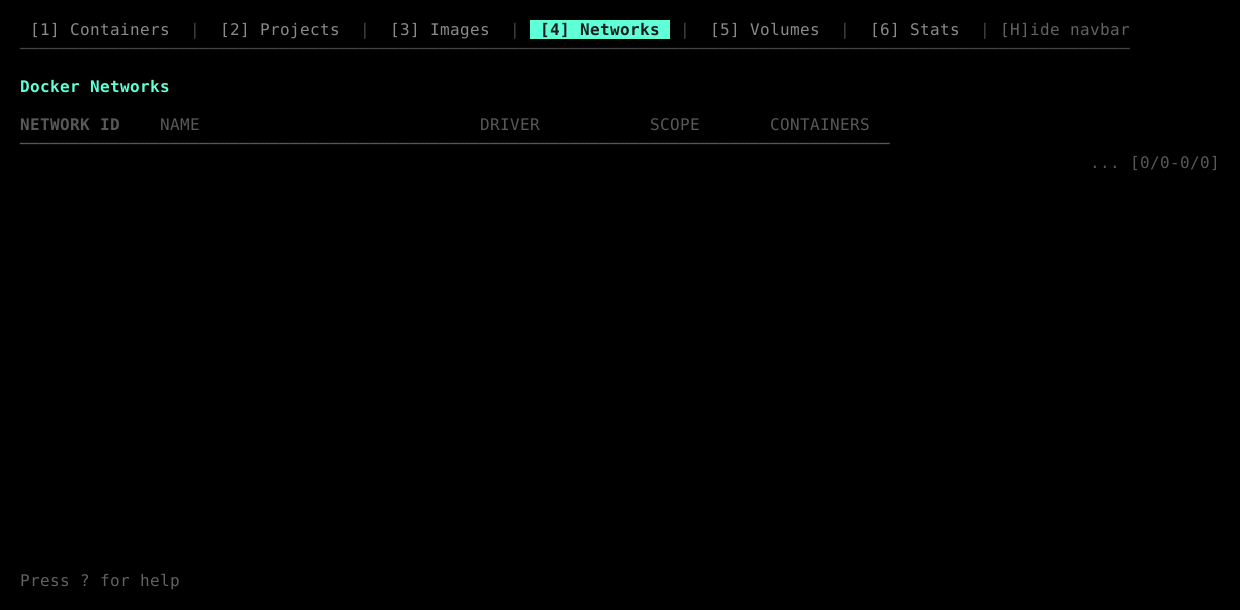
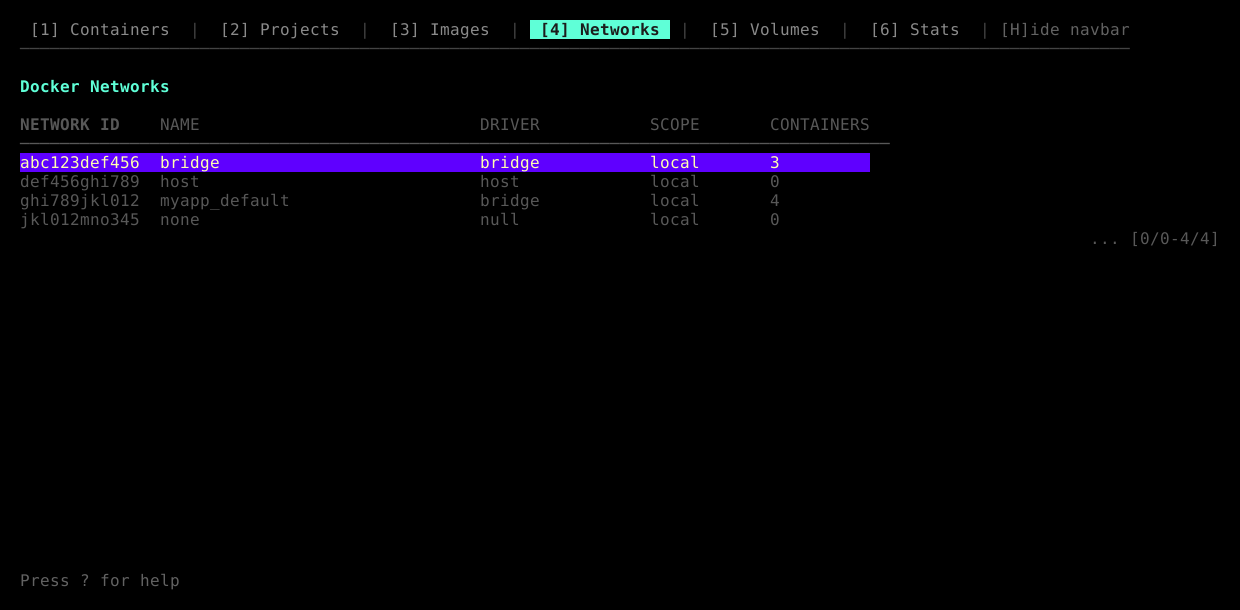
fix: ensure screenshots display table data properly
- Added SetRows calls to screenshot helper methods for NetworkListViewModel, VolumeListViewModel, and FileBrowserViewModel
- Added setup function for HelpView screenshots
- Screenshots now properly display table content with data instead of empty tables

🤖 Generated with [Claude Code](https://claude.ai/code)

Changed region(s): [[0.0, 0.2492, 0.7048, 0.3738], [0.9194, 0.3738, 0.9806, 0.4049], [0.9194, 0.2492, 0.9806, 0.2803]]

diff --git a/internal/ui/screenshot_helpers.go b/internal/ui/screenshot_helpers.go
@@ -69,6 +69,8 @@ func (m *Model) GetNetworkListViewModel() *NetworkListViewModel {
 
 func (vm *NetworkListViewModel) SetNetworks(networks []models.DockerNetwork) {
 	vm.dockerNetworks = networks
+	// Build rows for table display
+	vm.SetRows(vm.buildRows(), 20) // Use default height for screenshots
 }
 
 func (m *Model) GetVolumeListViewModel() *VolumeListViewModel {
@@ -77,6 +79,8 @@ func (m *Model) GetVolumeListViewModel() *VolumeListViewModel {
 
 func (vm *VolumeListViewModel) SetVolumes(volumes []models.DockerVolume) {
 	vm.dockerVolumes = volumes
+	// Build rows for table display
+	vm.SetRows(vm.buildRows(), 20) // Use default height for screenshots
 }
 
 func (m *Model) GetComposeProjectListViewModel() *ComposeProjectListViewModel {
@@ -149,6 +153,8 @@ func (m *Model) GetFileBrowserViewModel() *FileBrowserViewModel {
 
 func (vm *FileBrowserViewModel) SetContainerFiles(files []models.ContainerFile) {
 	vm.containerFiles = files
+	// Build rows for table display
+	vm.SetRows(vm.buildRows(), 20) // Use default height for screenshots
 }
 
 func (vm *FileBrowserViewModel) SetBrowsingContainer(container *docker.Container) {
@@ -157,6 +163,10 @@ func (vm *FileBrowserViewModel) SetBrowsingContainer(container *docker.Container
 
 func (vm *FileBrowserViewModel) SetCurrentPath(path string) {
 	vm.currentPath = path
+}
+
+func (m *Model) GetHelpViewModel() *HelpViewModel {
+	return &m.helpViewModel
 }
 
 func (m *Model) GetFileContentViewModel() *FileContentViewModel {

diff --git a/cmd/generate-screenshots/main.go b/cmd/generate-screenshots/main.go
@@ -92,7 +92,7 @@ func main() {
 			name:       "Help View",
 			filename:   "help-view.png",
 			viewType:   ui.HelpView,
-			setupModel: nil, // Help view generates its content automatically
+			setupModel: setupHelpView,
 		},
 		{
 			name:       "Stats View",
@@ -502,6 +502,12 @@ func setupProjectList(m *ui.Model) {
 			ConfigFiles: "/home/user/test/docker-compose.test.yml",
 		},
 	})
+}
+
+func setupHelpView(m *ui.Model) {
+	vm := m.GetHelpViewModel()
+	// Show help for compose process list view
+	vm.Show(m, ui.ComposeProcessListView)
 }
 
 func setupLogView(m *ui.Model) {
